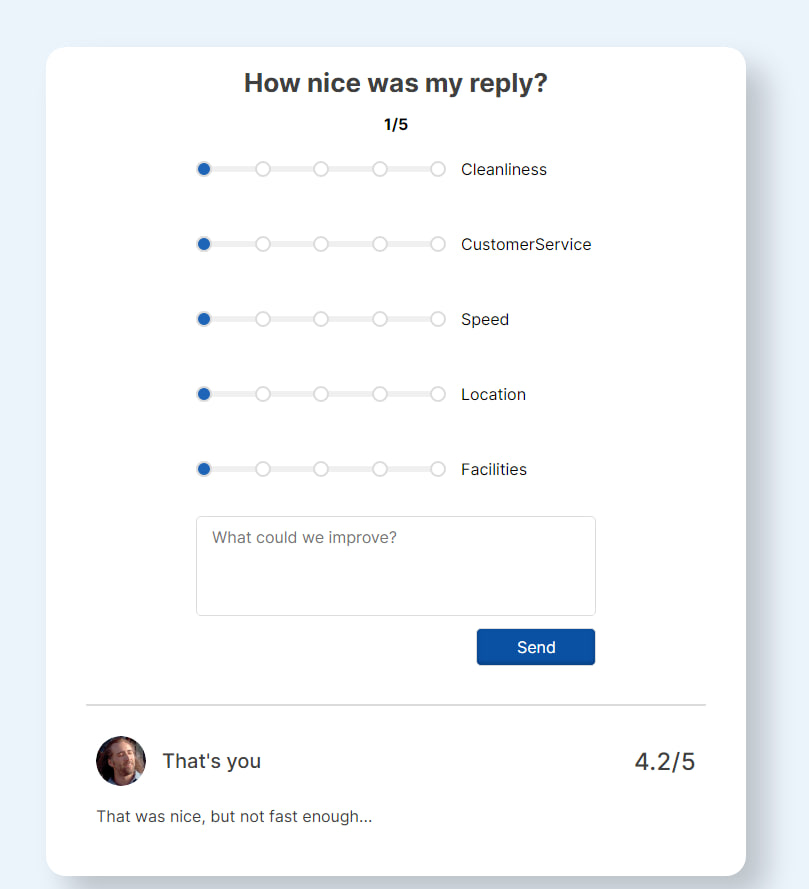
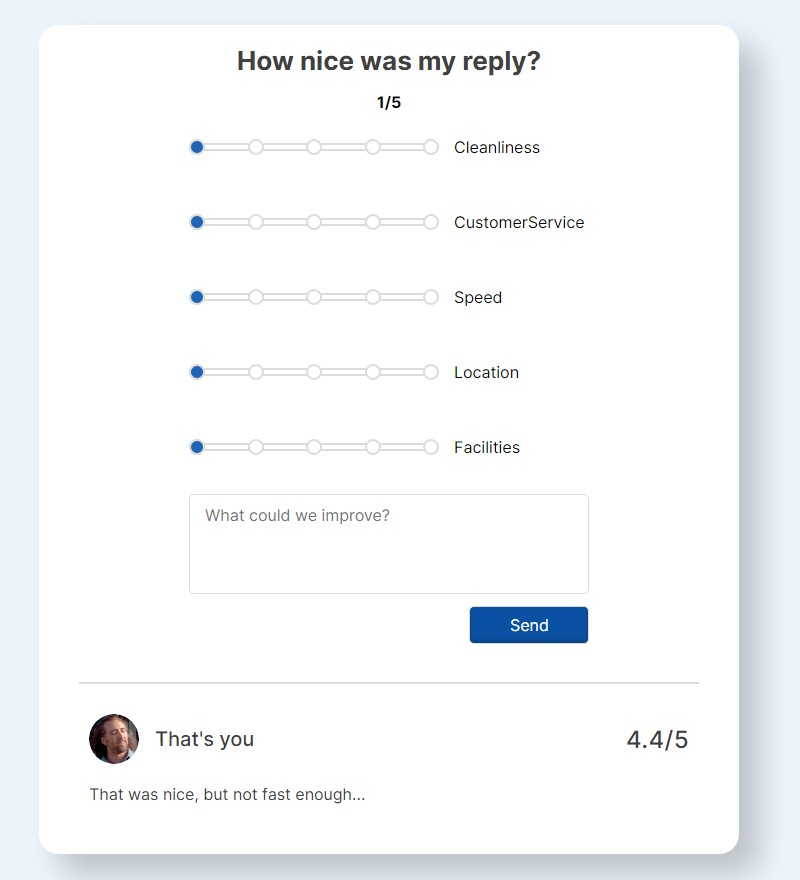
Поправил в range-input border. Цвета в переменные заключил

diff --git a/hw-7/src/components/UI/RangeInput/RangeInput.css b/hw-7/src/components/UI/RangeInput/RangeInput.css
@@ -1,4 +1,4 @@
-.range-input__container {
+.range-input-container {
   width: 250px;
   display: flex;
   align-items: center;
@@ -7,7 +7,7 @@
   position: relative;
 }
 
-input[type="range"].rinput {
+input[type="range"].range-input {
   width: 100%;
   -webkit-appearance: none;
   background-color: transparent;
@@ -19,7 +19,7 @@ input[type="range"].rinput {
   z-index: 1;
 }
 
-input[type="range"].rinput::-webkit-slider-runnable-track {
+input[type="range"].range-input::-webkit-slider-runnable-track {
   width: 100%;
   height: 6px;
   background-color: transparent;
@@ -27,7 +27,7 @@ input[type="range"].rinput::-webkit-slider-runnable-track {
   cursor: pointer;
 }
 
-input[type="range"].rinput::-moz-range-track {
+input[type="range"].range-input::-moz-range-track {
   width: 100%;
   height: 6px;
   background-color: transparent;
@@ -35,24 +35,24 @@ input[type="range"].rinput::-moz-range-track {
   cursor: pointer;
 }
 
-input[type="range"].rinput::-webkit-slider-thumb {
+input[type="range"].range-input::-webkit-slider-thumb {
   -webkit-appearance: none;
   width: 16px;
   height: 16px;
   border-radius: 50%;
-  background-color: #1e64b7;
-  border: 2px solid #dcdcdc;
+  background-color: var(--accent-color);
+  border: 2px solid var(--border-color);
   cursor: pointer;
   position: relative;
   top: -5px;
 }
 
-input[type="range"].rinput::-moz-range-thumb {
+input[type="range"].range-input::-moz-range-thumb {
   width: 16px;
   height: 16px;
   border-radius: 50%;
-  background-color: #1e64b7;
-  border: 2px solid #dcdcdc;
+  background-color: var(--accent-color);
+  border: 2px solid var(--border-color);
   cursor: pointer;
   position: relative;
   top: -5px;
@@ -73,20 +73,20 @@ input[type="range"].rinput::-moz-range-thumb {
   height: 16px;
   border-radius: 50%;
   background-color: #fff;
-  border: 2px solid #dcdcdc;
+  border: 2px solid var(--border-color);
   cursor: pointer;
 }
 
 .progress-dot.active {
-  background-color: #1e64b7;
+  background-color: var(--accent-color);
 }
 
 .filled-track {
   position: absolute;
   top: 5;
   left: 0;
-  height: 6px;
-  background-color: #1e64b7;
+  height: 8px;
+  background-color: var(--accent-color);
   border-radius: 5px;
 }
 
@@ -94,7 +94,8 @@ input[type="range"].rinput::-moz-range-thumb {
   position: absolute;
   top: 5;
   right: 0;
-  height: 6px;
-  background-color: #f0f0f0;
+  height: 8px;
+  background-color: #fff;
+  border: 2px solid var(--border-color);
   border-radius: 5px;
 }

diff --git a/hw-7/src/components/UI/RangeInput/RangeInput.tsx b/hw-7/src/components/UI/RangeInput/RangeInput.tsx
@@ -15,11 +15,11 @@ interface CustomRangeInputProps extends InputHTMLAttributes<HTMLInputElement> {
 
 const CustomRangeInput: FC<CustomRangeInputProps> = ({ min, max, step = 1, ...props }) => {
   return (
-    <div className="range-input__container">
+    <div className="range-input-container">
       <div className="filled-track" style={{ width: `${((props.value - min) / (max - min)) * 100}%` }} />
       <div className="unfilled-track" style={{ width: `${100 - ((props.value - min) / (max - min)) * 100}%` }} />
       <input
-        className="rinput"
+        className="range-input"
         type="range"
         name={props.name}
         min={min}

diff --git a/hw-7/src/components/UI/Button/Button.css b/hw-7/src/components/UI/Button/Button.css
@@ -1,18 +1,18 @@
 .button {
   padding: 8px 40px;
   border-radius: 5px;
-  border: 1px solid #dcdcdc;
+  border: 1px solid var(--border-color);
   color: #fff;
   transition: all 0.3s ease;
-  background: #1e65b7;
+  background: var(--accent-color);
   cursor: pointer;
 }
 
 .button:hover {
-  background: #0b51a3;
+  background: var(--accent-active-color);
 }
 
 .button:focus {
-  background: #0b51a3;
+  background: var(--accent-active-color);
   box-shadow: 0px -2px 4px 0px rgba(0, 0, 0, 0.25) inset;
 }

diff --git a/hw-7/src/index.css b/hw-7/src/index.css
@@ -1,6 +1,10 @@
 @import url("https://fonts.googleapis.com/css2?family=Inter:wght@400;500;600;700&display=swap");
+
 :root {
   --title-color: #404040;
+  --accent-color: #1e64b7;
+  --accent-active-color: #0b51a3;
+  --border-color: #dcdcdc;
 }
 
 body {
